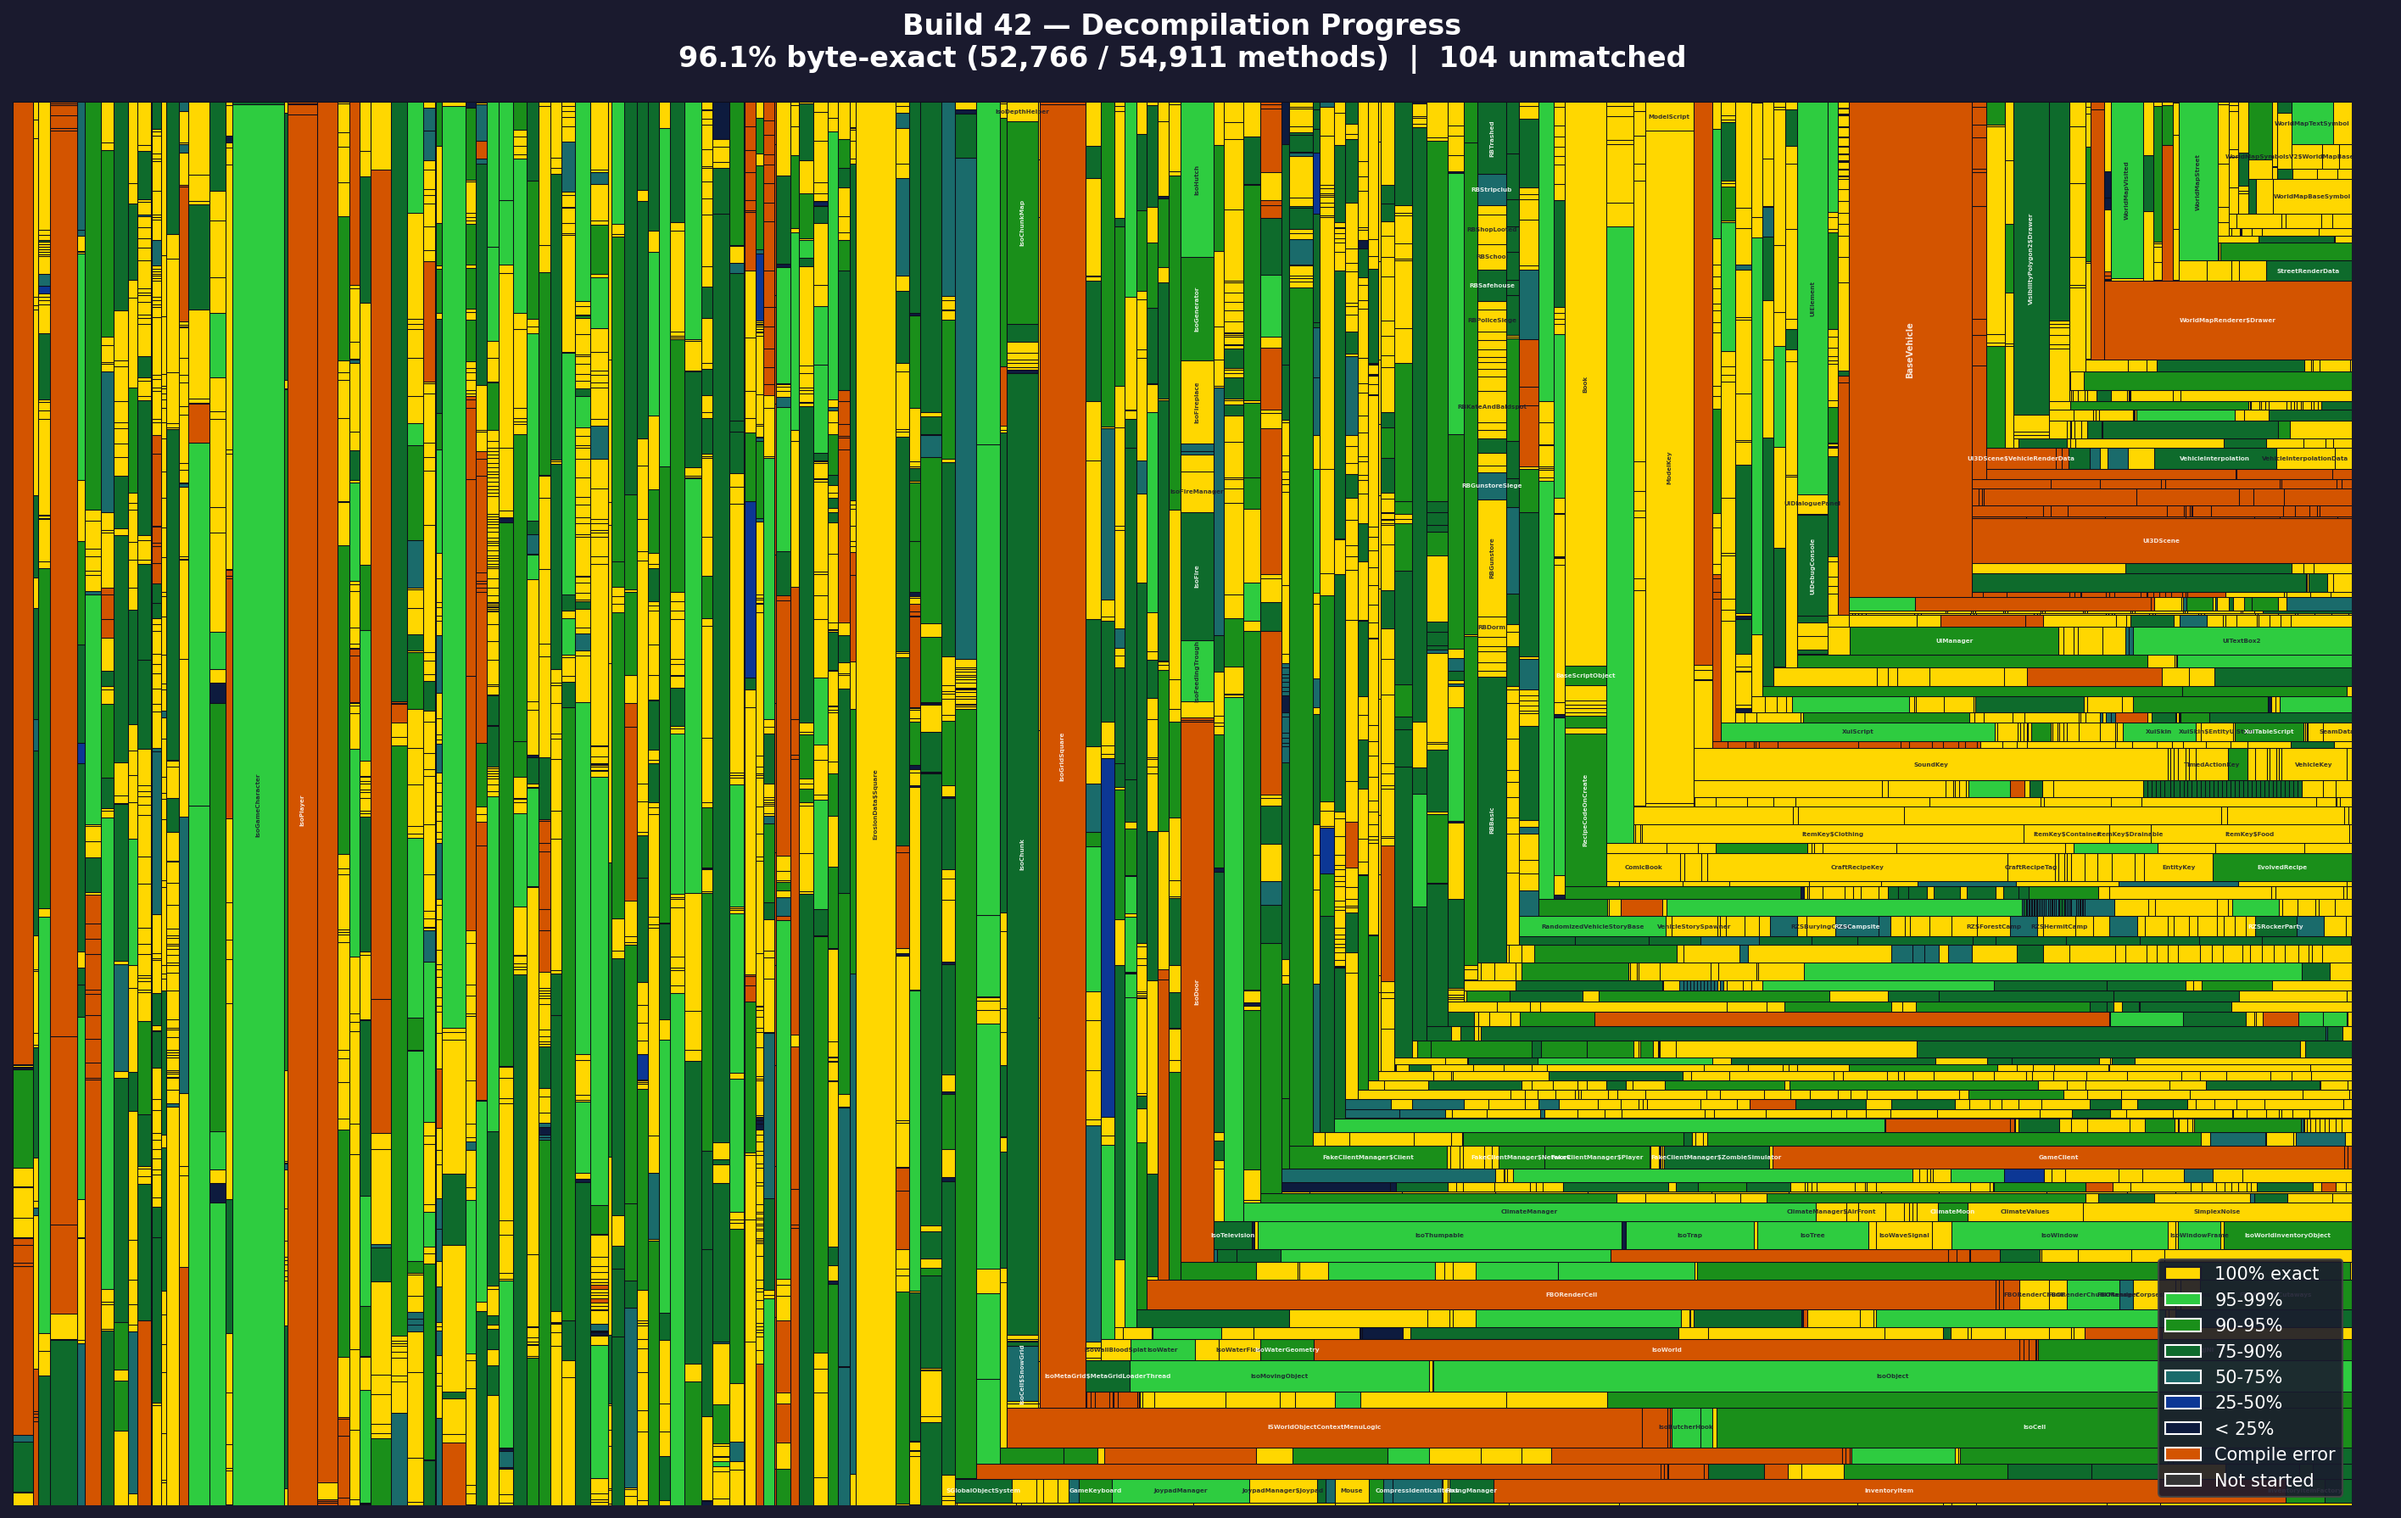
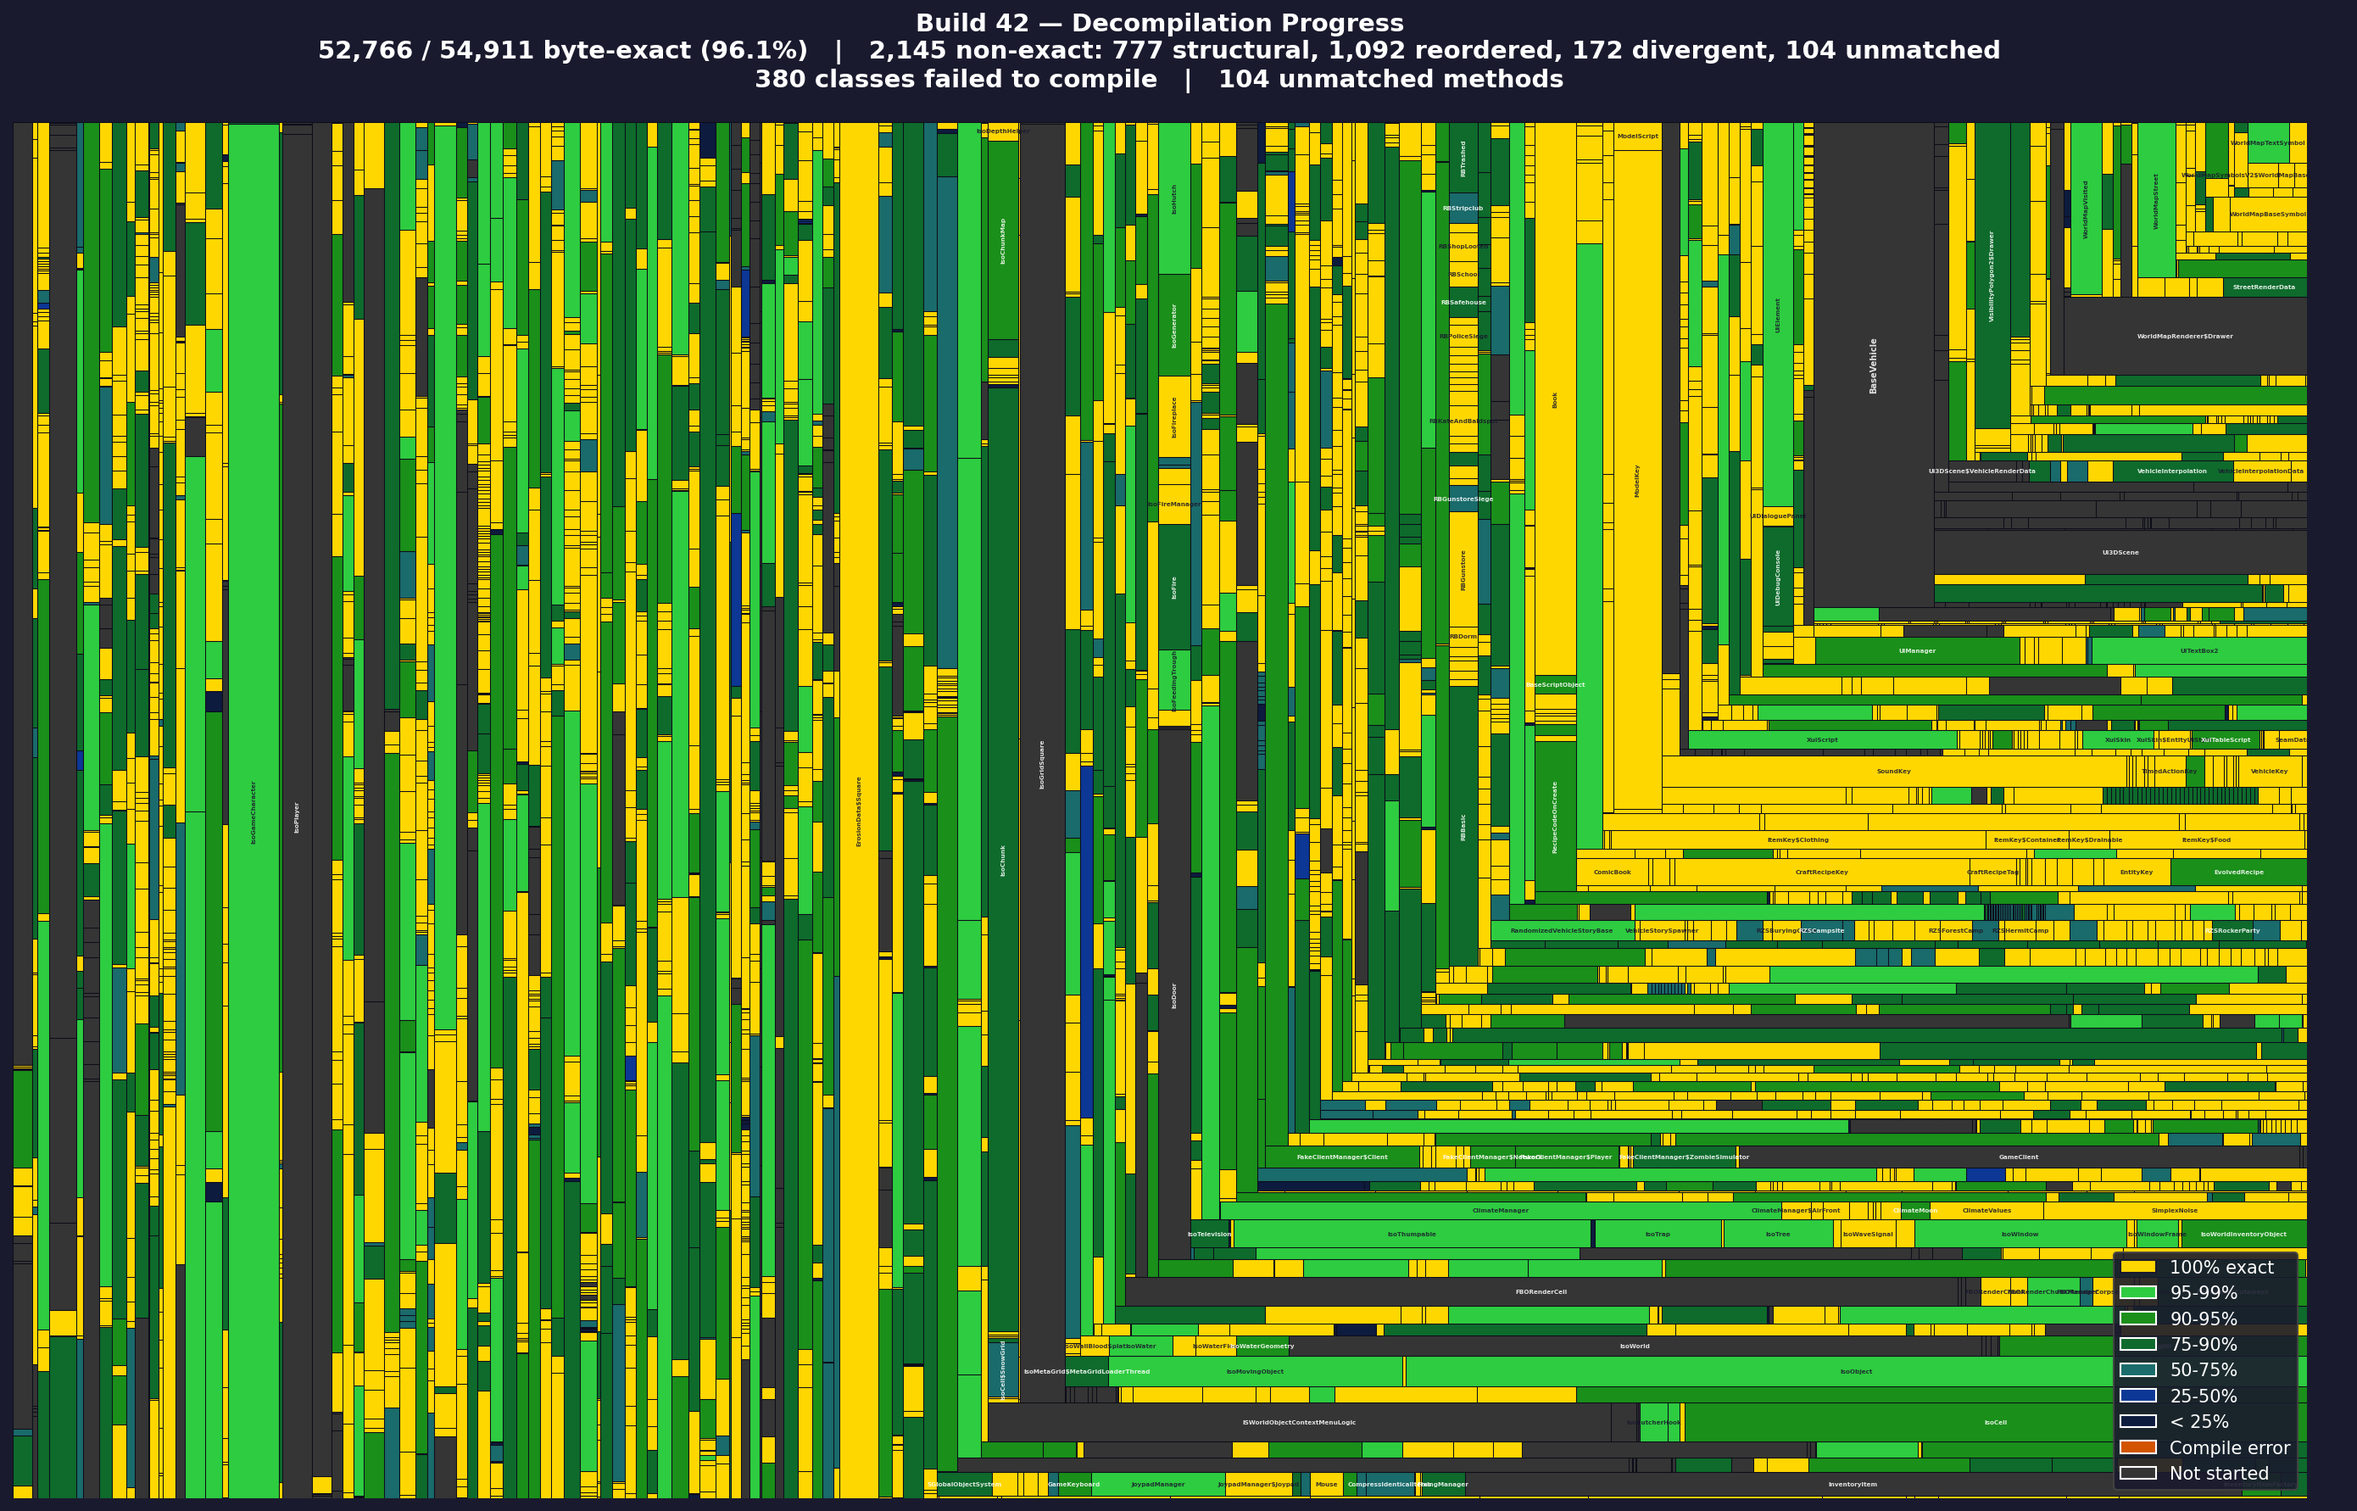
refactor: progress image shows tiers, compile errors, and unmatched counts

diff --git a/scripts/generate_progress_image.py b/scripts/generate_progress_image.py
@@ -12,17 +12,15 @@ import matplotlib.patches as mpatches
 import squarify
 
 
-# Color by percentage of methods that are EXACT matches
 COLOR_TIERS = [
-    # (min_pct, color,     label)
-    (100,      "#FFD700",  "100% exact"),
-    (95,       "#2ecc40",  "95-99%"),
-    (90,       "#1a8f1a",  "90-95%"),
-    (75,       "#0e6b2c",  "75-90%"),
-    (50,       "#1a6b6b",  "50-75%"),
-    (25,       "#0c3795",  "25-50%"),
-    (0,        "#0d1b3e",  "< 25%"),
-    (-1,       "#353535",  "Not started"),
+    (100,  "#FFD700",  "100% exact"),
+    (95,   "#2ecc40",  "95-99%"),
+    (90,   "#1a8f1a",  "90-95%"),
+    (75,   "#0e6b2c",  "75-90%"),
+    (50,   "#1a6b6b",  "50-75%"),
+    (25,   "#0c3795",  "25-50%"),
+    (0,    "#0d1b3e",  "< 25%"),
+    (-1,   "#353535",  "Not started"),
 ]
 
 COLOR_NOT_COMPILED = "#D35400"
@@ -33,8 +31,7 @@ def get_exact_pct(unit):
     if total == 0:
         return 0
     non_exact = len(unit.get("methods", []))
-    exact = total - non_exact
-    return 100.0 * exact / total
+    return 100.0 * (total - non_exact) / total
 
 
 def get_color(unit, source_dir=None):
@@ -42,8 +39,7 @@ def get_color(unit, source_dir=None):
     if status == "MISSING_RECOMP":
         if source_dir:
             name = unit.get("name", "")
-            source_name = name.split("$")[0]
-            source_file = Path(source_dir) / (source_name + ".java")
+            source_file = Path(source_dir) / (name.split("$")[0] + ".java")
             if not source_file.exists():
                 return "#353535"
         return COLOR_NOT_COMPILED
@@ -69,11 +65,14 @@ def main():
 
     units = report["units"]
 
-    # Calculate global stats
+    # Calculate stats
     total_methods = 0
     exact_methods = 0
     tier_counts = {}
+    missing_classes = 0
+    total_classes = 0
     for unit in units:
+        total_classes += 1
         tm = unit.get("total_methods", 0)
         total_methods += tm
         methods = unit.get("methods", [])
@@ -81,15 +80,17 @@ def main():
         for m in methods:
             tier = m.get("matchTier", "NONE")
             tier_counts[tier] = tier_counts.get(tier, 0) + 1
+        if unit.get("status") == "MISSING_RECOMP":
+            missing_classes += 1
 
-    none_count = tier_counts.get("NONE", 0)
     exact_pct = 100.0 * exact_methods / total_methods if total_methods > 0 else 0
+    structural = tier_counts.get("STRUCTURAL", 0) + tier_counts.get("STRUCTURAL_NO_TRYCATCH", 0)
+    reordered = tier_counts.get("SORTED_MULTISET", 0)
+    divergent = tier_counts.get("FUZZY_COMPUTATION", 0) + tier_counts.get("CORE_OPS_ONLY", 0)
+    unmatched = tier_counts.get("NONE", 0)
 
-    # Prepare treemap data
-    sizes = []
-    labels = []
-    colors = []
-
+    # Treemap data
+    sizes, labels, colors = [], [], []
     for unit in units:
         total_insns = int(unit.get("total_instructions", 0) or 0)
         if total_insns == 0:
@@ -104,6 +105,7 @@ def main():
         print("No units with instructions found!")
         return
 
+    # Layout
     fig, ax = plt.subplots(1, 1, figsize=(20, 12))
     fig.patch.set_facecolor("#1a1a2e")
     ax.set_facecolor("#1a1a2e")
@@ -115,9 +117,7 @@ def main():
         x, y, dx, dy = rect["x"], rect["y"], rect["dx"], rect["dy"]
         ax.add_patch(plt.Rectangle(
             (x, y), dx, dy,
-            facecolor=color,
-            edgecolor="#0d0d1a",
-            linewidth=0.5,
+            facecolor=color, edgecolor="#0d0d1a", linewidth=0.5,
         ))
         if dx >= 1.2 and dy >= 0.8:
             text_color = "#1a1a2e" if color in ("#FFD700", "#2ecc40") else "white"
@@ -128,13 +128,9 @@ def main():
                 fontsize = min(8, max(3.5, min(dx, dy) * 0.8))
                 rotation = 0
             ax.text(
-                x + dx / 2, y + dy / 2,
-                label,
-                ha="center", va="center",
-                color=text_color,
-                fontsize=fontsize,
-                fontweight="bold",
-                alpha=0.85,
+                x + dx / 2, y + dy / 2, label,
+                ha="center", va="center", color=text_color,
+                fontsize=fontsize, fontweight="bold", alpha=0.85,
                 rotation=rotation,
             )
 
@@ -143,16 +139,57 @@ def main():
     ax.set_aspect("equal")
     ax.axis("off")
 
-    # Title
+    # Header
     header = custom_title or "Decompilation Progress"
-    subtitle = f"{exact_pct:.1f}% byte-exact ({exact_methods:,} / {total_methods:,} methods)"
-    if none_count > 0:
-        subtitle += f"  |  {none_count:,} unmatched"
 
-    ax.set_title(
-        f"{header}\n{subtitle}",
-        color="white", fontsize=16, fontweight="bold", pad=20
-    )
+    # Build tier summary line
+    parts = []
+    if structural > 0:
+        parts.append(f"{structural:,} structural")
+    if reordered > 0:
+        parts.append(f"{reordered:,} reordered")
+    if divergent > 0:
+        parts.append(f"{divergent:,} divergent")
+    if unmatched > 0:
+        parts.append(f"{unmatched:,} unmatched")
+
+    non_exact = total_methods - exact_methods
+    line2 = f"{exact_methods:,} / {total_methods:,} byte-exact ({exact_pct:.1f}%)"
+    if non_exact > 0:
+        line2 += f"   |   {non_exact:,} non-exact: {', '.join(parts)}"
+
+    # Status line: compile errors and missing classes
+    status_parts = []
+    if missing_classes > 0:
+        status_parts.append(f"{missing_classes:,} classes failed to compile")
+    if unmatched > 0:
+        status_parts.append(f"{unmatched:,} unmatched methods")
+
+    # Try to read compile error count from nearby error log
+    try:
+        error_log = Path(report_path).parent.parent / "Recompiled-game" / "compile-errors.log"
+        if not error_log.exists():
+            # Try build dir pattern
+            rp = Path(report_path)
+            for parent in [rp.parent.parent.parent]:
+                candidates = list(parent.glob("*/Recompiled-game/compile-errors.log"))
+                if candidates:
+                    error_log = candidates[0]
+                    break
+        if error_log.exists():
+            error_count = sum(1 for line in open(error_log) if "error:" in line)
+            if error_count > 0:
+                status_parts.append(f"{error_count:,} compile errors")
+    except Exception:
+        pass
+
+    if not status_parts:
+        status_parts.append("0 compile errors")
+
+    line3 = "   |   ".join(status_parts)
+    title_text = f"{header}\n{line2}\n{line3}"
+
+    ax.set_title(title_text, color="white", fontsize=14, fontweight="bold", pad=20)
 
     # Legend
     legend_items = []
@@ -160,17 +197,11 @@ def main():
         ec = "#1a1a2e" if color == "#FFD700" else "white"
         legend_items.append(mpatches.Patch(facecolor=color, edgecolor=ec, label=label))
     legend_items.insert(-1, mpatches.Patch(
-        facecolor=COLOR_NOT_COMPILED, edgecolor="white",
-        label="Compile error"))
+        facecolor=COLOR_NOT_COMPILED, edgecolor="white", label="Compile error"))
 
     ax.legend(
-        handles=legend_items,
-        loc="lower right",
-        fontsize=10,
-        facecolor="#1a1a2e",
-        edgecolor="#444",
-        labelcolor="white",
-        framealpha=0.9,
+        handles=legend_items, loc="lower right", fontsize=10,
+        facecolor="#1a1a2e", edgecolor="#444", labelcolor="white", framealpha=0.9,
     )
 
     plt.tight_layout()
